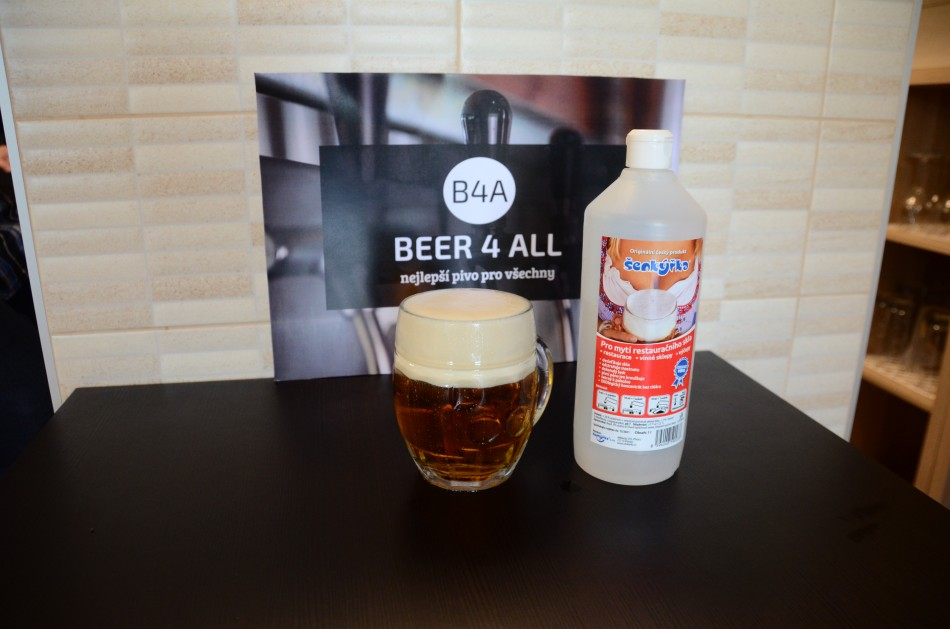
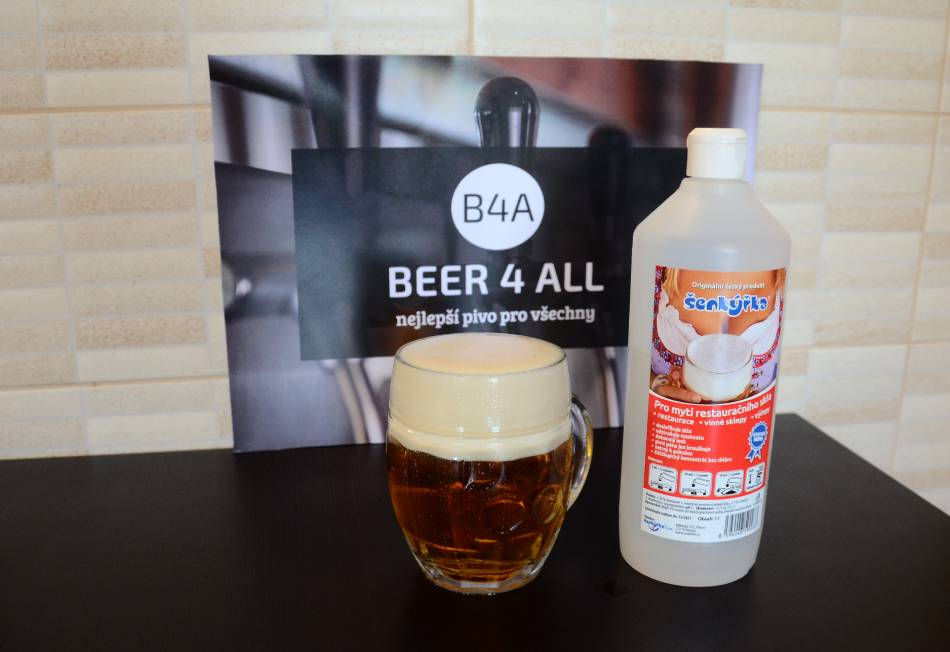
Update servis foto, add contact button

diff --git a/assets/less/programDetail.less b/assets/less/programDetail.less
@@ -26,7 +26,7 @@
     border-radius: 5px;
     padding: 15px;
     font-size: 16px;
-    div:not(.disclaimer) {
+    div:not(.disclaimer, .btnPlace) {
       border-bottom: 1px solid #ebebeb;
     }
     span {
@@ -42,6 +42,23 @@
       margin-top: 20px;
       font-size: 12px;
       color: dimgrey;
+    }
+
+    .btnPlace {
+      text-align: center;  
+      .btn {
+        border: 2px solid black;
+        display:inline-block;
+        margin-top: 30px;
+        padding: 5px;
+        background-color: #000;
+        color: #fff;
+
+          &:hover {
+            background-color: #fff;
+            color: #000;
+          }
+      }
     }
   }
 

diff --git a/pages/pan-vycepni.vue b/pages/pan-vycepni.vue
@@ -24,8 +24,13 @@
           <div class="price-box">
             <div>Doba trvání: 2 <span>hodiny</span></div>
             <div>Cena kurzu: 1 990 Kč </div>
-            <span>+ doprava 4 Kč / km</span>
+            <span>+ doprava 4 Kč / km <br>
+              z Rakovníka
+            </span>
             <div class="disclaimer">Cena je uvedena včetně DPH a zahrnuje spotřební materiál pro sanitaci a údržbu (chemie, drobné náhradní díly)</div>
+            <div class="btnPlace">
+              <a class="btn" href="mailto:pivo@beer4all.cz">Kontaktujte nás</a>
+            </div>
           </div>
         </div>
       </div>

diff --git a/pages/pan-hospodsky.vue b/pages/pan-hospodsky.vue
@@ -28,8 +28,11 @@
           <div class="price-box">
             <div>Doba trvání: 2.5 <span>hodiny</span></div>
             <div>Cena kurzu: 2 990 Kč </div>
-            <span>+ doprava 4 Kč / km</span>
+            <span>+ doprava 4 Kč / km <br>z Rakovníka</span>
             <div class="disclaimer">Cena je uvedena včetně DPH a zahrnuje spotřební materiál pro sanitaci a údržbu (chemie, drobné náhradní díly)</div>
+            <div class="btnPlace">
+              <a class="btn" href="mailto:pivo@beer4all.cz">Kontaktujte nás</a>
+            </div>
           </div>
         </div>
       </div>
